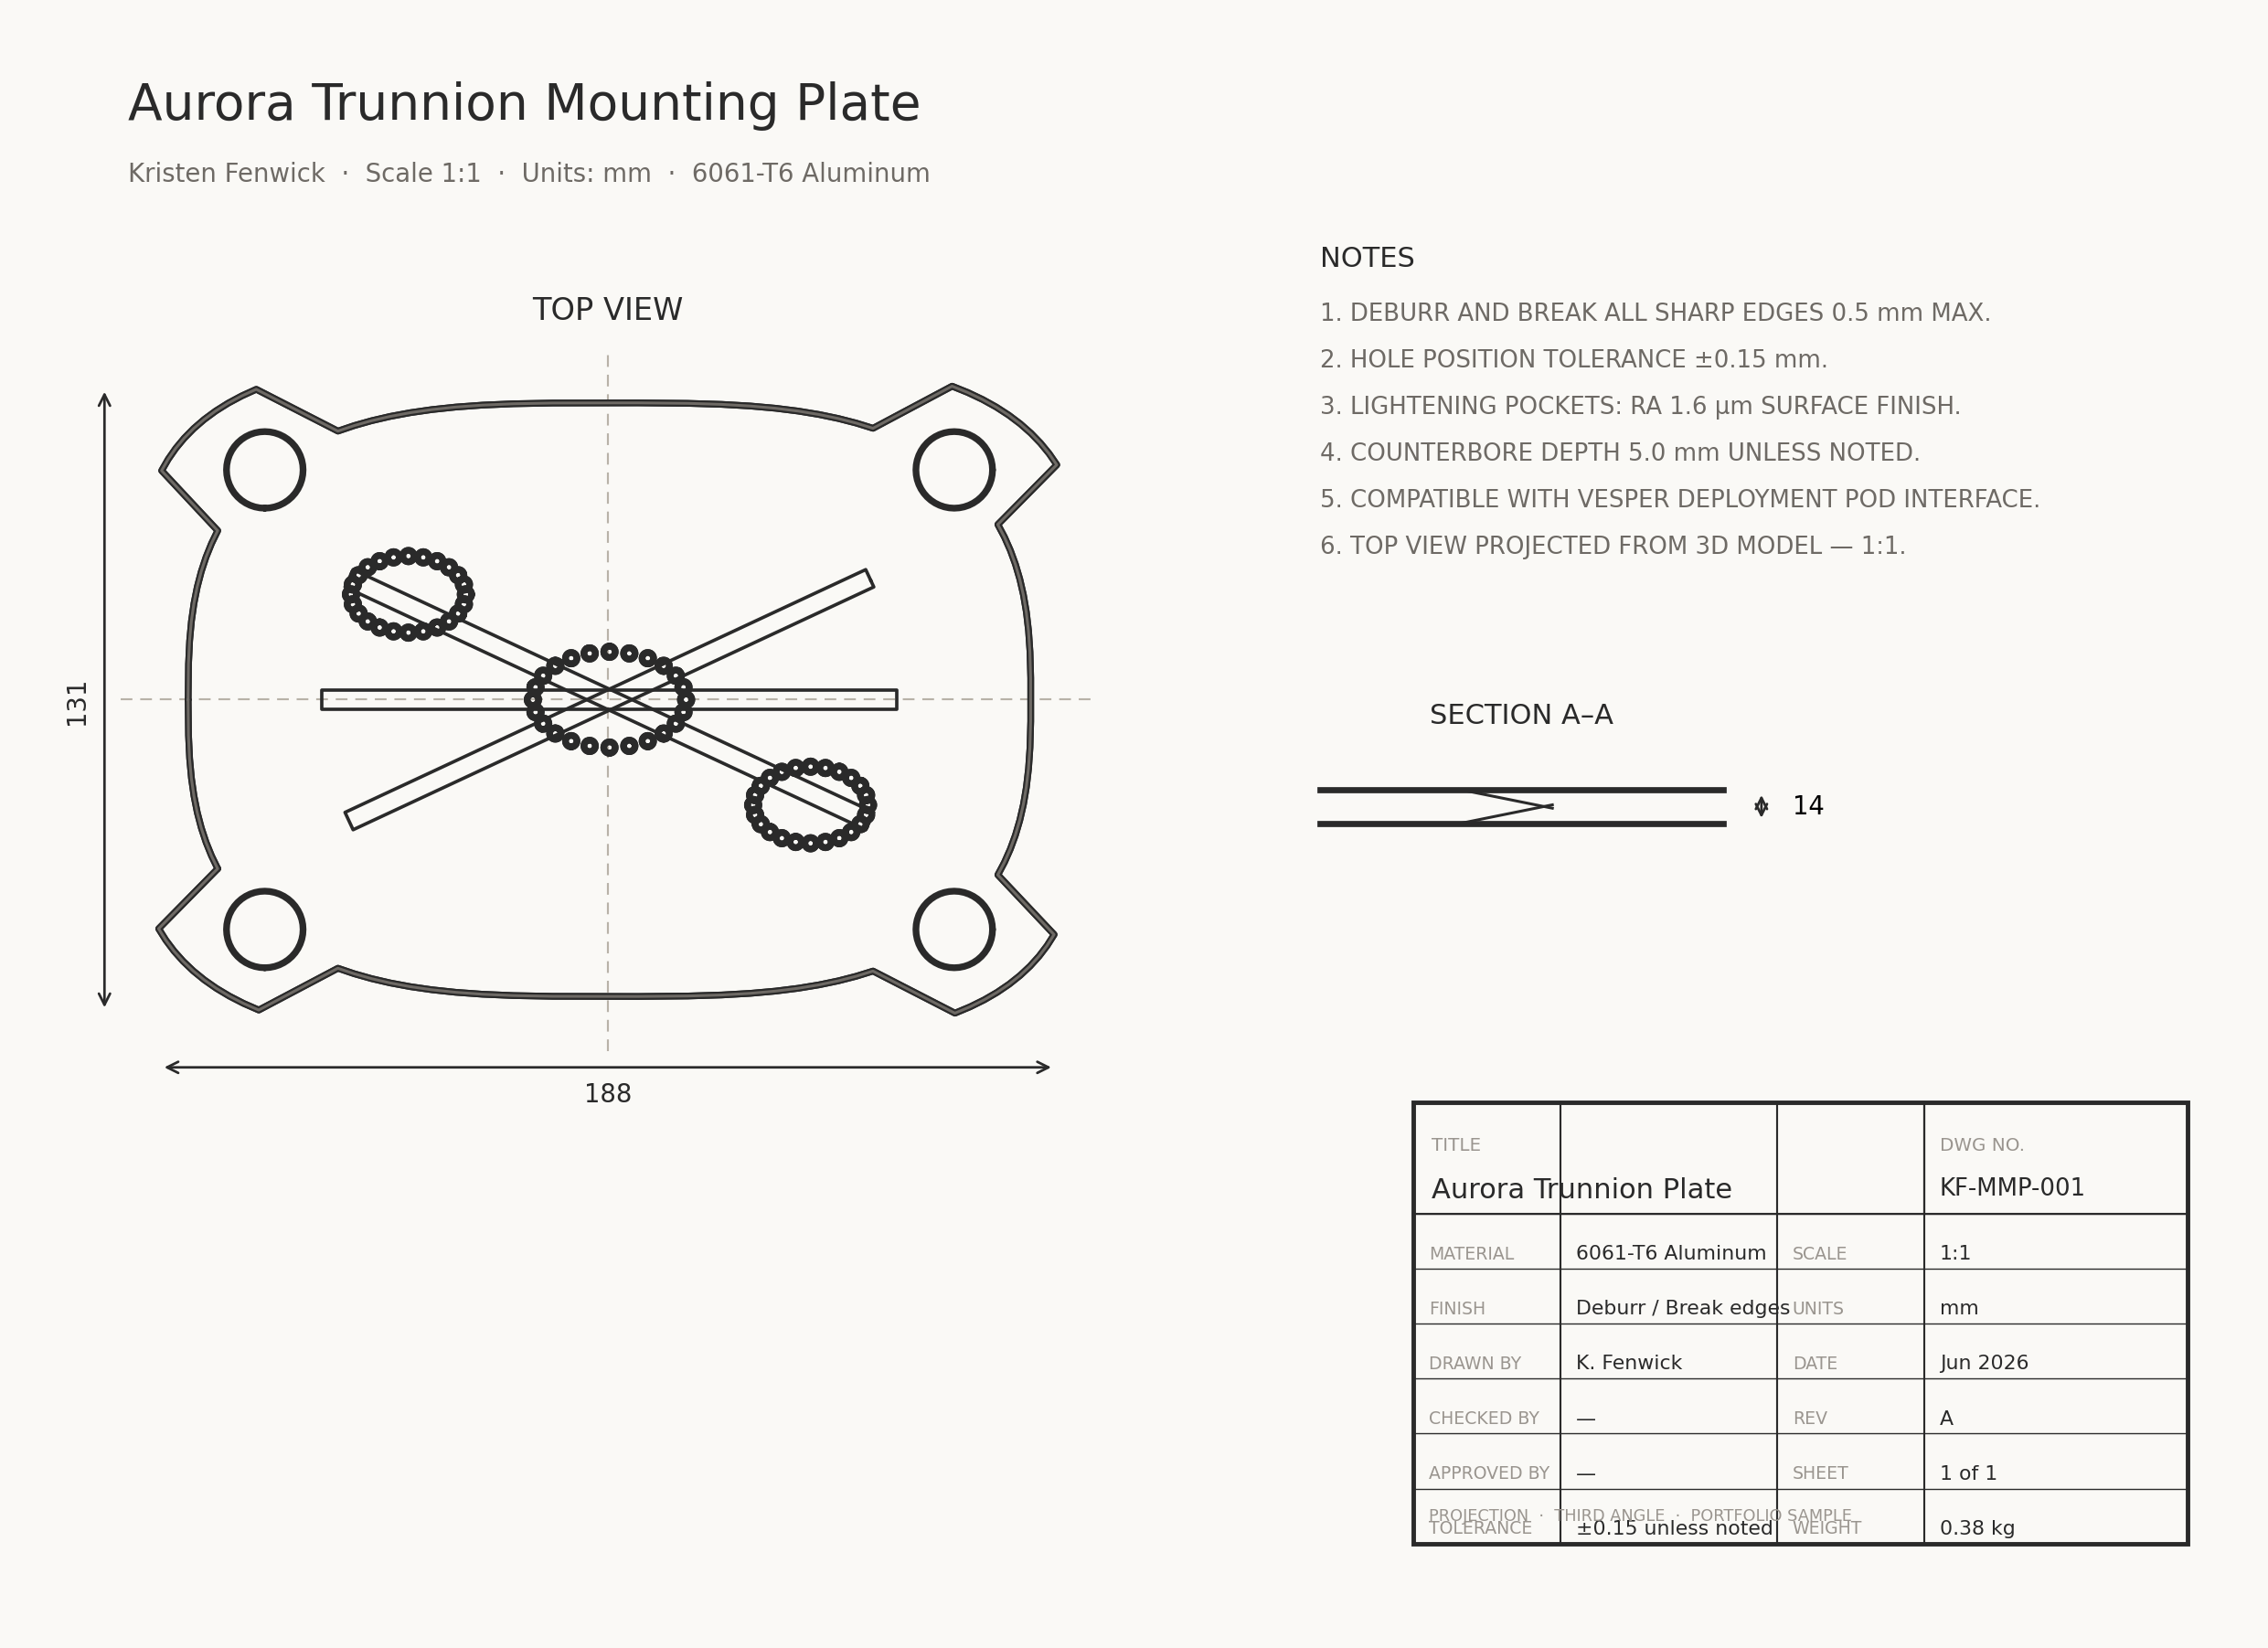
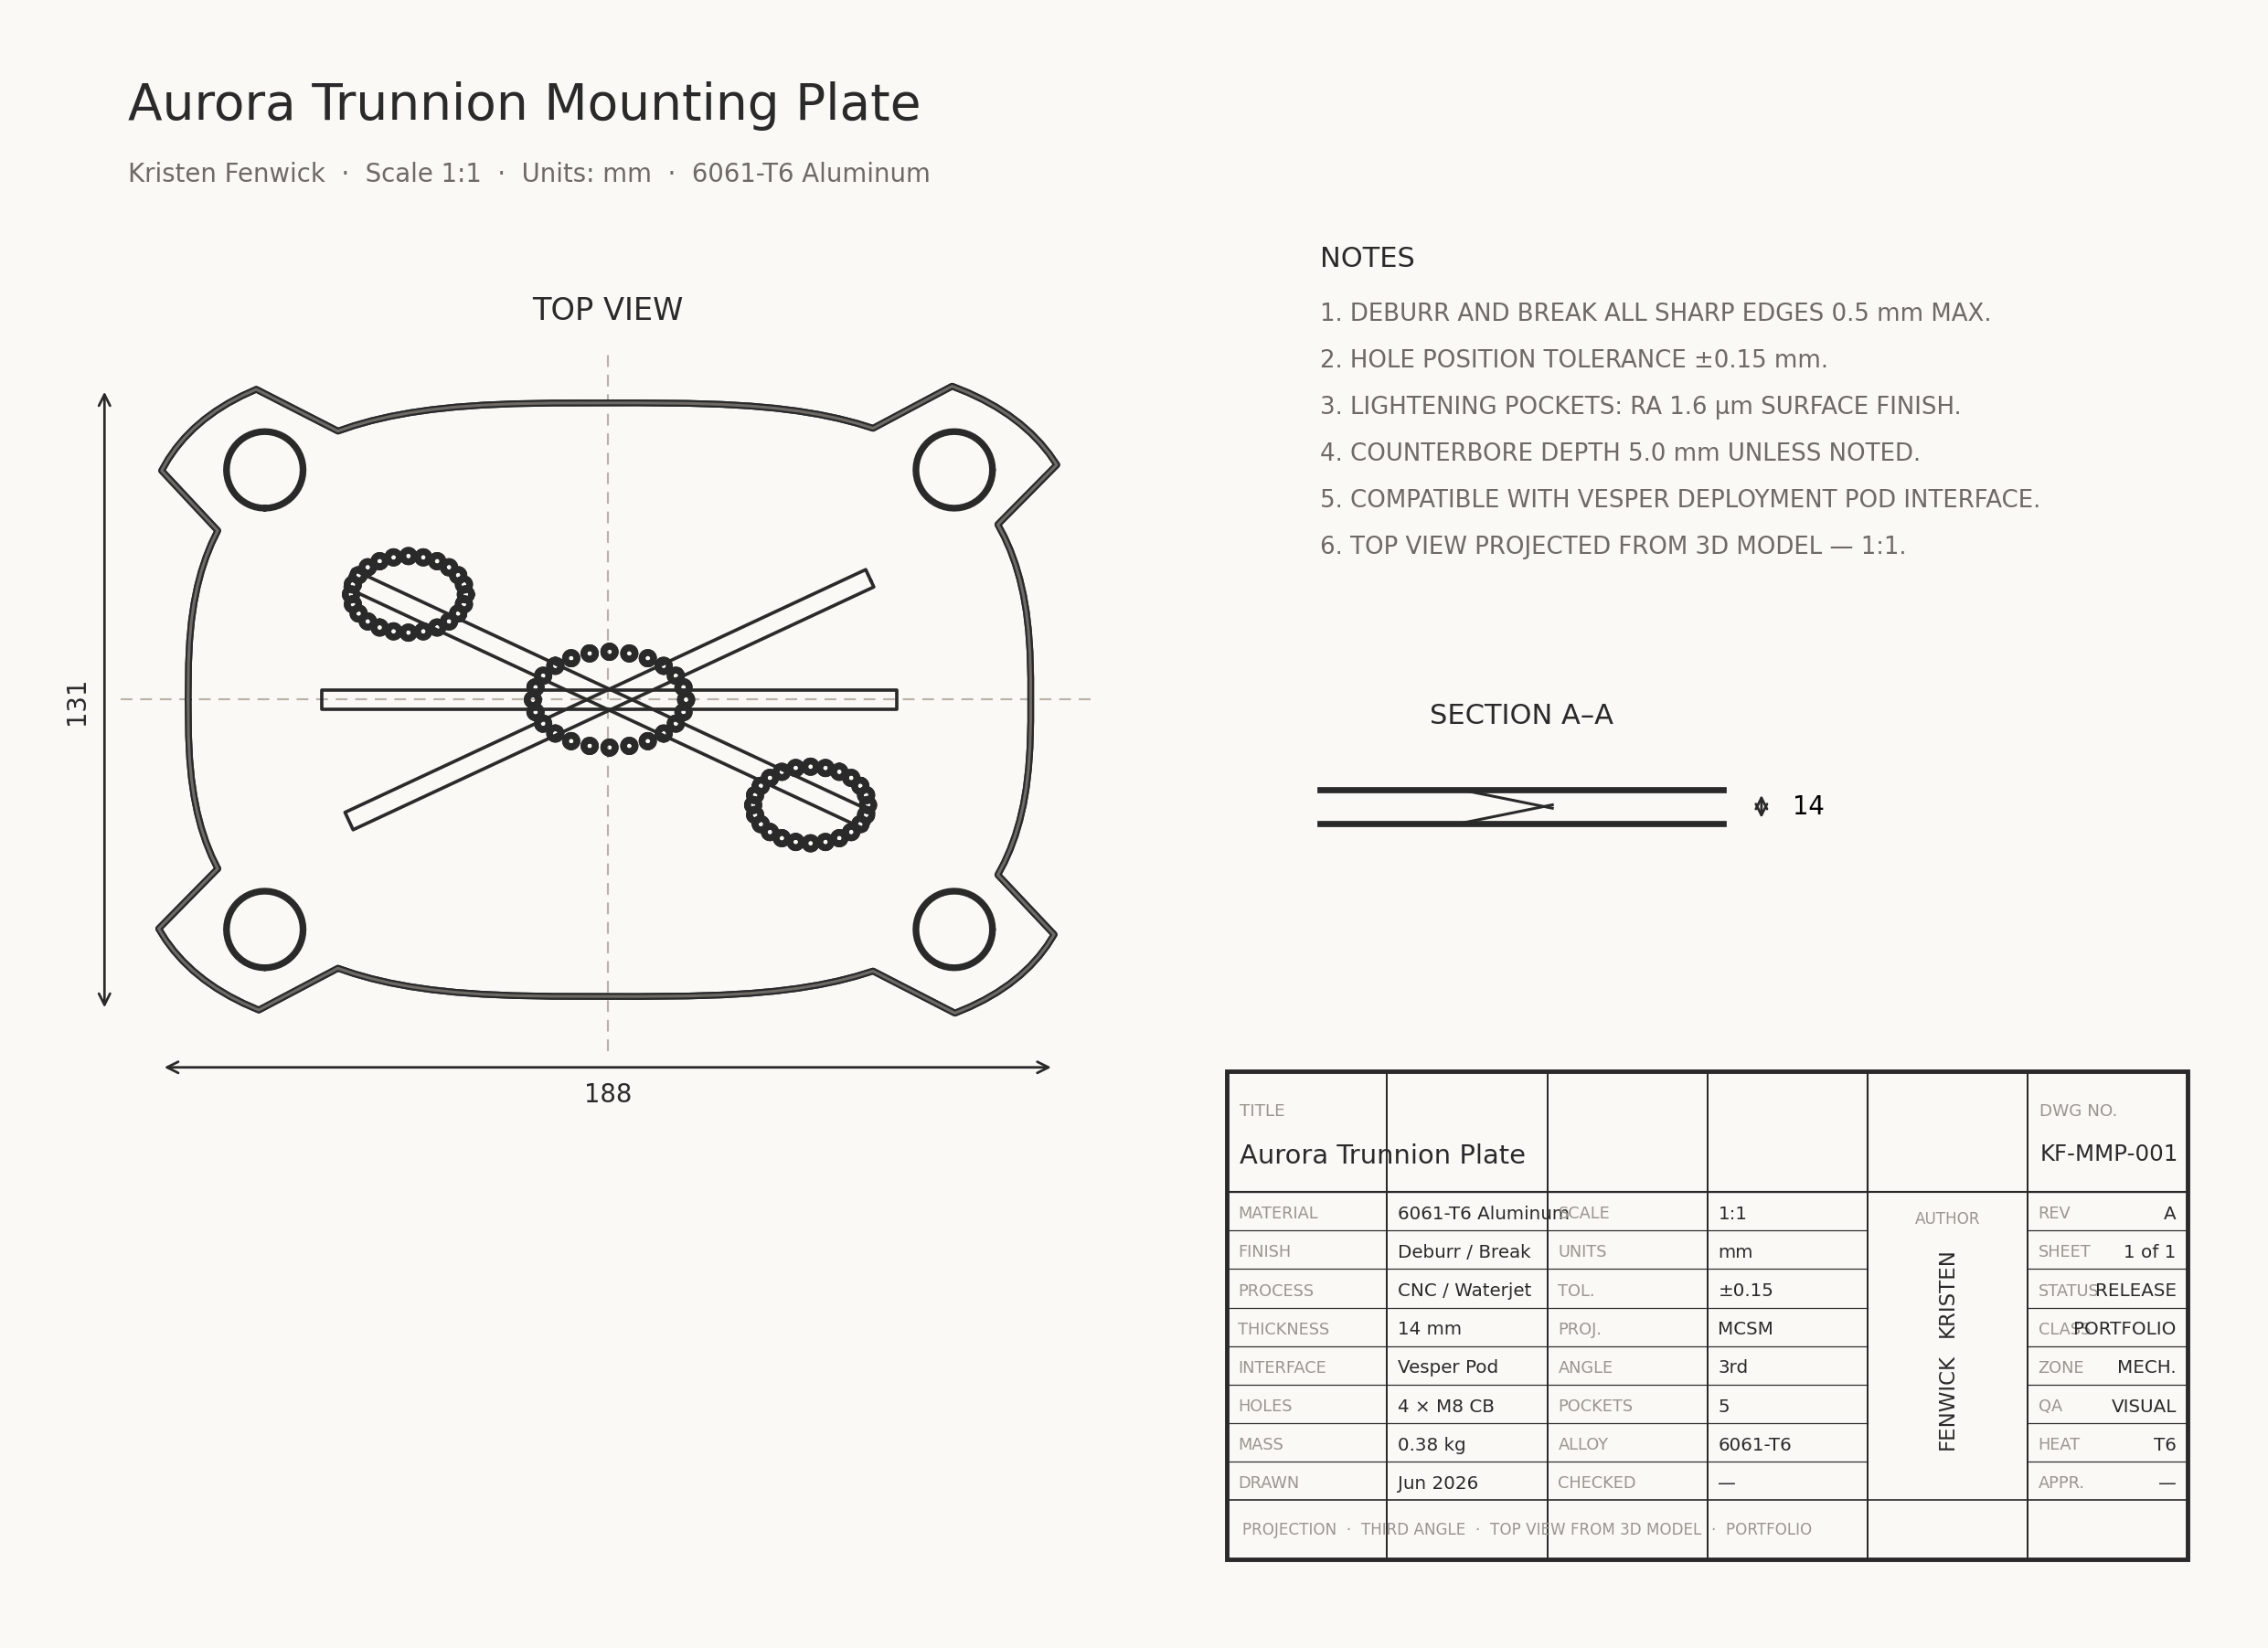
Fix mounting plate layout: 6-col title block and isometric left image

Changed region(s): [[0.5276, 0.6522, 0.9621, 0.9628], [0.7449, 0.6522, 0.7759, 0.6833]]

diff --git a/index.html b/index.html
@@ -252,8 +252,8 @@
                         <p class="cad-viewer-hint">Drag to rotate · scroll to zoom</p>
                     </div>
                     <div class="cad-images">
-                        <img src="cad-portfolio/mechanical-mounting-plate/mounting_plate_top_view.png?v=3" alt="Aurora Trunnion Mounting Plate top view matching 3D model">
-                        <img src="cad-portfolio/mechanical-mounting-plate/mounting_plate_drawing.png?v=3" alt="Aurora Trunnion Mounting Plate full technical drawing">
+                        <img src="cad-portfolio/mechanical-mounting-plate/mounting_plate_3d.png?v=4" alt="Aurora Trunnion Mounting Plate isometric view">
+                        <img src="cad-portfolio/mechanical-mounting-plate/mounting_plate_drawing.png?v=4" alt="Aurora Trunnion Mounting Plate technical drawing with top view">
                     </div>
                     <div class="cad-caption">
                         <h3>Aurora Trunnion Mounting Plate</h3>

diff --git a/cad-portfolio/mechanical-mounting-plate/generate_mounting_plate.py b/cad-portfolio/mechanical-mounting-plate/generate_mounting_plate.py
@@ -186,48 +186,74 @@ def _section_paths(mesh: trimesh.Trimesh, z: float) -> list[np.ndarray]:
 
 
 def _draw_title_block(ax, x: float, y: float, w: float, h: float) -> None:
-    """Four-column professional CAD title block."""
+    """Six-column × eight-row CAD title block with dedicated name column."""
     from matplotlib.patches import FancyBboxPatch
 
     ax.add_patch(FancyBboxPatch((x, y), w, h, boxstyle="square,pad=0",
                                 fill=False, ec="#2A2A2A", lw=1.6))
 
-    # Column splits: label | value | label | value
-    c1, c2, c3, c4 = x + 0.95, x + 2.35, x + 3.3, x + w
-    for cx in [c1, c2, c3]:
-        ax.plot([cx, cx], [y, y + h], color="#2A2A2A", lw=0.7)
+    # Columns: L1 | V1 | L2 | V2 | NAME (dedicated) | META
+    cw = w / 6
+    cols = [x + i * cw for i in range(7)]
+    name_col = 4   # index into cols — 5th column dedicated to Kristen Fenwick
+    meta_col = 5
 
-    title_h = 0.72
+    title_h = 0.78
+    footer_h = 0.38
+    body_h = h - title_h - footer_h
+    row_count = 8
+    row_h = body_h / row_count
+
+    # Vertical grid
+    for i in range(1, 6):
+        ax.plot([cols[i], cols[i]], [y, y + h], color="#2A2A2A", lw=0.65)
+
+    # Title band
     ax.plot([x, x + w], [y + h - title_h, y + h - title_h], color="#2A2A2A", lw=0.7)
-    ax.plot([c3, c3], [y + h - title_h, y + h], color="#2A2A2A", lw=0.7)
+    ax.plot([cols[name_col], cols[name_col]], [y + h - title_h, y + h], color="#2A2A2A", lw=0.7)
 
-    ax.text(x + 0.12, y + h - 0.22, "TITLE", fontsize=6.5, color="#9A958F", va="top")
-    ax.text(x + 0.12, y + h - 0.48, "Aurora Trunnion Plate", fontsize=10, color="#2A2A2A",
-            fontweight="light", va="top")
-    ax.text(c3 + 0.1, y + h - 0.22, "DWG NO.", fontsize=6.5, color="#9A958F", va="top")
-    ax.text(c3 + 0.1, y + h - 0.48, "KF-MMP-001", fontsize=8.5, color="#2A2A2A", va="top")
+    ax.text(cols[0] + 0.08, y + h - 0.2, "TITLE", fontsize=6, color="#9A958F", va="top")
+    ax.text(cols[0] + 0.08, y + h - 0.46, "Aurora Trunnion Plate", fontsize=9.5,
+            color="#2A2A2A", fontweight="light", va="top")
+    ax.text(cols[meta_col] + 0.08, y + h - 0.2, "DWG NO.", fontsize=6, color="#9A958F", va="top")
+    ax.text(cols[meta_col] + 0.08, y + h - 0.46, "KF-MMP-001", fontsize=8, color="#2A2A2A", va="top")
 
-    row_h = (h - title_h) / 6
+    # Dedicated name column — spans full body height
+    name_cx = (cols[name_col] + cols[name_col + 1]) / 2
+    name_mid = y + footer_h + body_h / 2
+    ax.text(name_cx, name_mid + 0.35, "KRISTEN", fontsize=7.5, color="#2A2A2A",
+            ha="center", va="center", fontweight="light", rotation=90)
+    ax.text(name_cx, name_mid - 0.35, "FENWICK", fontsize=7.5, color="#2A2A2A",
+            ha="center", va="center", fontweight="light", rotation=90)
+    ax.text(name_cx, y + footer_h + body_h - 0.12, "AUTHOR", fontsize=5.5,
+            color="#9A958F", ha="center", va="top")
+
     rows = [
-        ("MATERIAL", "6061-T6 Aluminum", "SCALE", "1:1"),
-        ("FINISH", "Deburr / Break edges", "UNITS", "mm"),
-        ("DRAWN BY", "K. Fenwick", "DATE", "Jun 2026"),
-        ("CHECKED BY", "—", "REV", "A"),
-        ("APPROVED BY", "—", "SHEET", "1 of 1"),
-        ("TOLERANCE", "±0.15 unless noted", "WEIGHT", "0.38 kg"),
+        ("MATERIAL", "6061-T6 Aluminum", "SCALE", "1:1", "REV", "A"),
+        ("FINISH", "Deburr / Break", "UNITS", "mm", "SHEET", "1 of 1"),
+        ("PROCESS", "CNC / Waterjet", "TOL.", "±0.15", "STATUS", "RELEASE"),
+        ("THICKNESS", "14 mm", "PROJ.", "MCSM", "CLASS", "PORTFOLIO"),
+        ("INTERFACE", "Vesper Pod", "ANGLE", "3rd", "ZONE", "MECH."),
+        ("HOLES", "4 × M8 CB", "POCKETS", "5", "QA", "VISUAL"),
+        ("MASS", "0.38 kg", "ALLOY", "6061-T6", "HEAT", "T6"),
+        ("DRAWN", "Jun 2026", "CHECKED", "—", "APPR.", "—"),
     ]
-    for i, (l1, v1, l2, v2) in enumerate(rows):
-        ry = y + h - title_h - (i + 0.72) * row_h
-        ax.plot([x, x + w], [y + h - title_h - i * row_h, y + h - title_h - i * row_h],
-                color="#2A2A2A", lw=0.45)
-        ax.text(x + 0.1, ry, l1, fontsize=6.2, color="#9A958F", va="center")
-        ax.text(c1 + 0.1, ry, v1, fontsize=7.2, color="#2A2A2A", va="center")
-        ax.text(c2 + 0.1, ry, l2, fontsize=6.2, color="#9A958F", va="center")
-        ax.text(c3 + 0.1, ry, v2, fontsize=7.2, color="#2A2A2A", va="center")
+    for i, (l1, v1, l2, v2, l3, v3) in enumerate(rows):
+        ry = y + h - title_h - (i + 0.55) * row_h
+        ax.plot([x, cols[name_col]], [y + h - title_h - i * row_h,
+                                      y + h - title_h - i * row_h], color="#2A2A2A", lw=0.4)
+        ax.plot([cols[name_col + 1], x + w], [y + h - title_h - i * row_h,
+                                              y + h - title_h - i * row_h], color="#2A2A2A", lw=0.4)
+        ax.text(cols[0] + 0.07, ry, l1, fontsize=5.8, color="#9A958F", va="center")
+        ax.text(cols[1] + 0.07, ry, v1, fontsize=6.5, color="#2A2A2A", va="center")
+        ax.text(cols[2] + 0.07, ry, l2, fontsize=5.8, color="#9A958F", va="center")
+        ax.text(cols[3] + 0.07, ry, v2, fontsize=6.5, color="#2A2A2A", va="center")
+        ax.text(cols[meta_col] + 0.07, ry, l3, fontsize=5.8, color="#9A958F", va="center")
+        ax.text(cols[meta_col + 1] - 0.07, ry, v3, fontsize=6.5, color="#2A2A2A", va="center", ha="right")
 
-    # Projection + status footer cell
-    ax.text(x + 0.1, y + 0.18, "PROJECTION  ·  THIRD ANGLE  ·  PORTFOLIO SAMPLE",
-            fontsize=5.8, color="#9A958F", va="center")
+    ax.plot([x, x + w], [y + footer_h, y + footer_h], color="#2A2A2A", lw=0.55)
+    ax.text(x + 0.1, y + footer_h / 2, "PROJECTION  ·  THIRD ANGLE  ·  TOP VIEW FROM 3D MODEL  ·  PORTFOLIO",
+            fontsize=5.5, color="#9A958F", va="center")
 
 
 def _draw_section_paths(ax, paths: list[np.ndarray], ox: float, oy: float, scale: float,
@@ -342,7 +368,7 @@ def render_2d_drawing(mesh: trimesh.Trimesh) -> None:
     ]):
         ax.text(notes_x, 8.25 - i * 0.3, note, fontsize=8.5, color="#6E6A65")
 
-    _draw_title_block(ax, x=8.8, y=0.35, w=5.0, h=2.85)
+    _draw_title_block(ax, x=7.6, y=0.25, w=6.2, h=3.15)
 
     for ext in ("png", "pdf"):
         plt.savefig(ROOT / f"mounting_plate_drawing.{ext}", dpi=220, bbox_inches="tight",